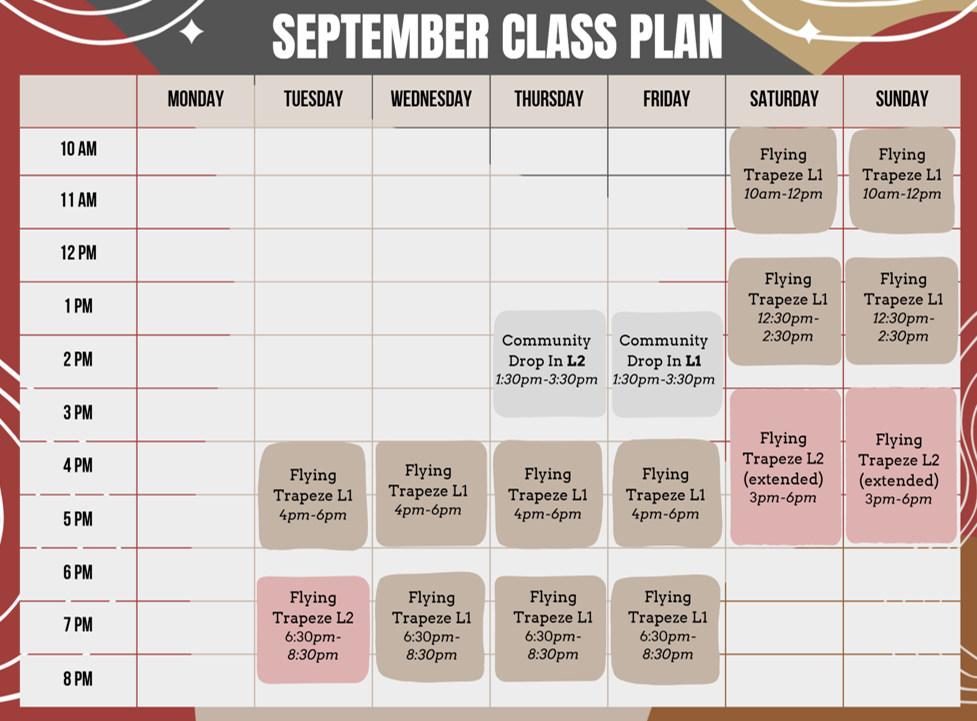
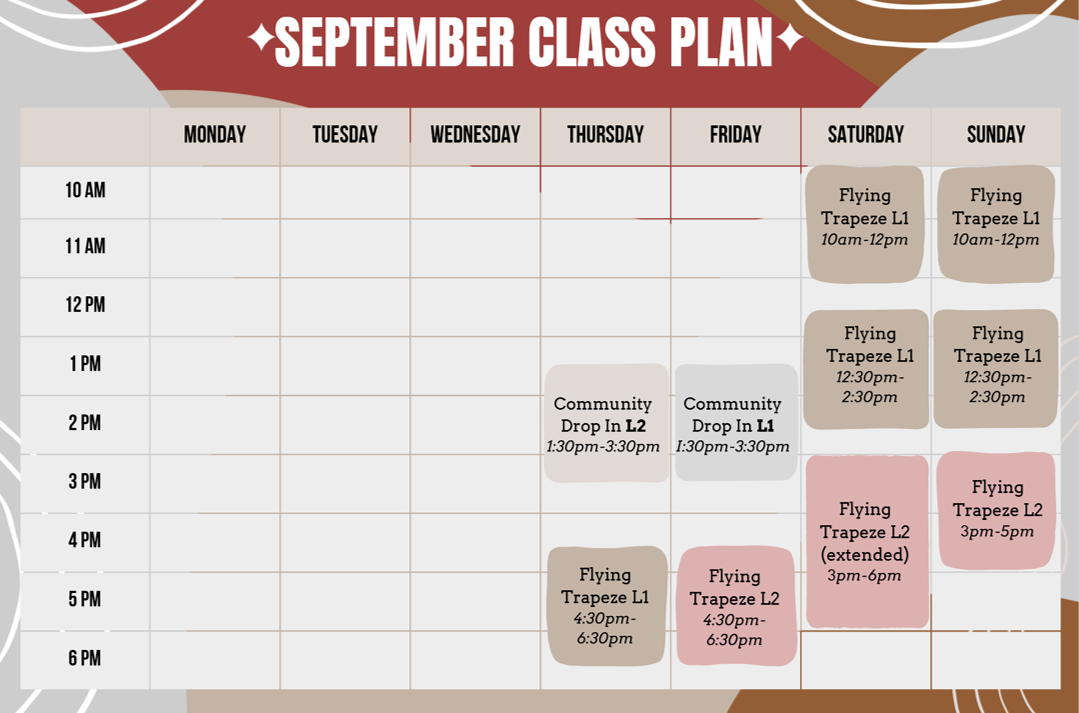
Add new september plan and october plan to site

diff --git a/booking.html b/booking.html
@@ -87,15 +87,20 @@
           below to reserve your place.
         </p>
         <p>
-          Exciting guest workshops and other events are not shown on the regular timetable, ensure you stay up-to-date with our Instagram account and newsletter.
+          Exciting guest workshops and other events are not shown on the regular timetable, ensure you stay up-to-date
+          with our Instagram account and newsletter.
         </p>
 
         <div class="schedule-button-group">
-          
+
 
           <button type="button" class="btn september-plan-trigger" id="open-september-plan" aria-haspopup="dialog"
             aria-controls="september-plan-modal">
-            View Early September Timetable
+            View September Timetable
+          </button>
+          <button type="button" class="btn summer-plan-trigger" id="open-summer-plan" aria-haspopup="dialog"
+            aria-controls="summer-plan-modal">
+            View October Timetable
           </button>
         </div>
         <iframe class="booking-iframe" src="https://bookwhen.com/flighthouse/iframe" frameborder="0" scrolling="yes"
@@ -128,11 +133,11 @@
     aria-labelledby="summer-plan-title" aria-hidden="true">
     <div class="summer-plan-modal__panel" role="document">
       <button type="button" class="summer-plan-modal__close" id="close-summer-plan"
-        aria-label="Close summer class plan">
+        aria-label="Close class plan">
         &times;
       </button>
       <h2 id="summer-plan-title">
-        Summer Class Plan
+        Class Plan
       </h2>
       <p class="summer-plan-modal__intro">
         Choose a suitable session, then close this timetable and book using
@@ -159,12 +164,12 @@
     <div class="summer-plan-modal__panel" role="document">
 
       <button type="button" class="summer-plan-modal__close" id="close-september-plan"
-        aria-label="Close early September class plan">
+        aria-label="Close class plan">
         &times;
       </button>
 
       <h2 id="september-plan-title">
-        Early September Timetable
+        Class Plan
       </h2>
 
       <p class="summer-plan-modal__intro">
